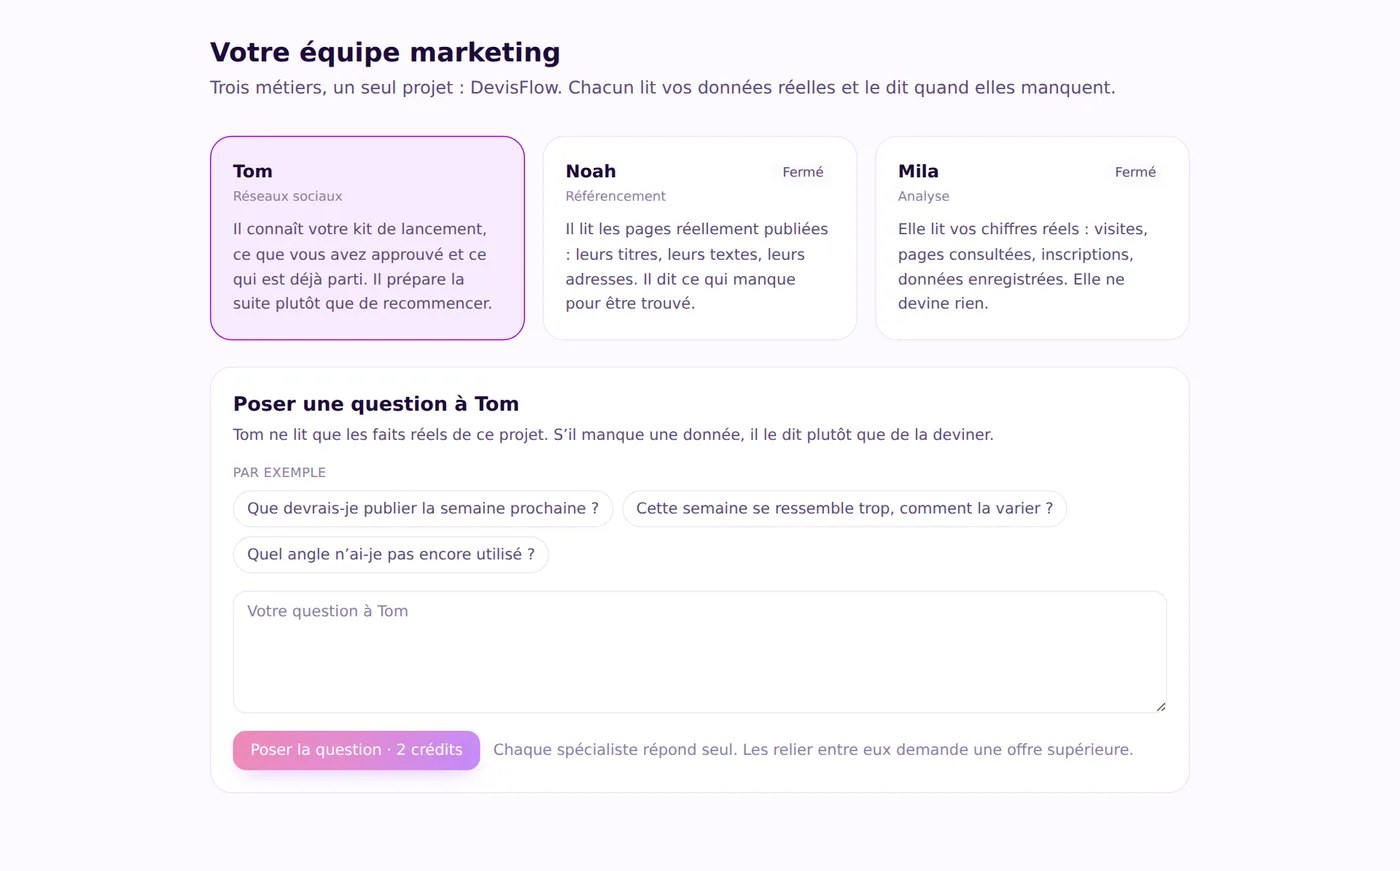
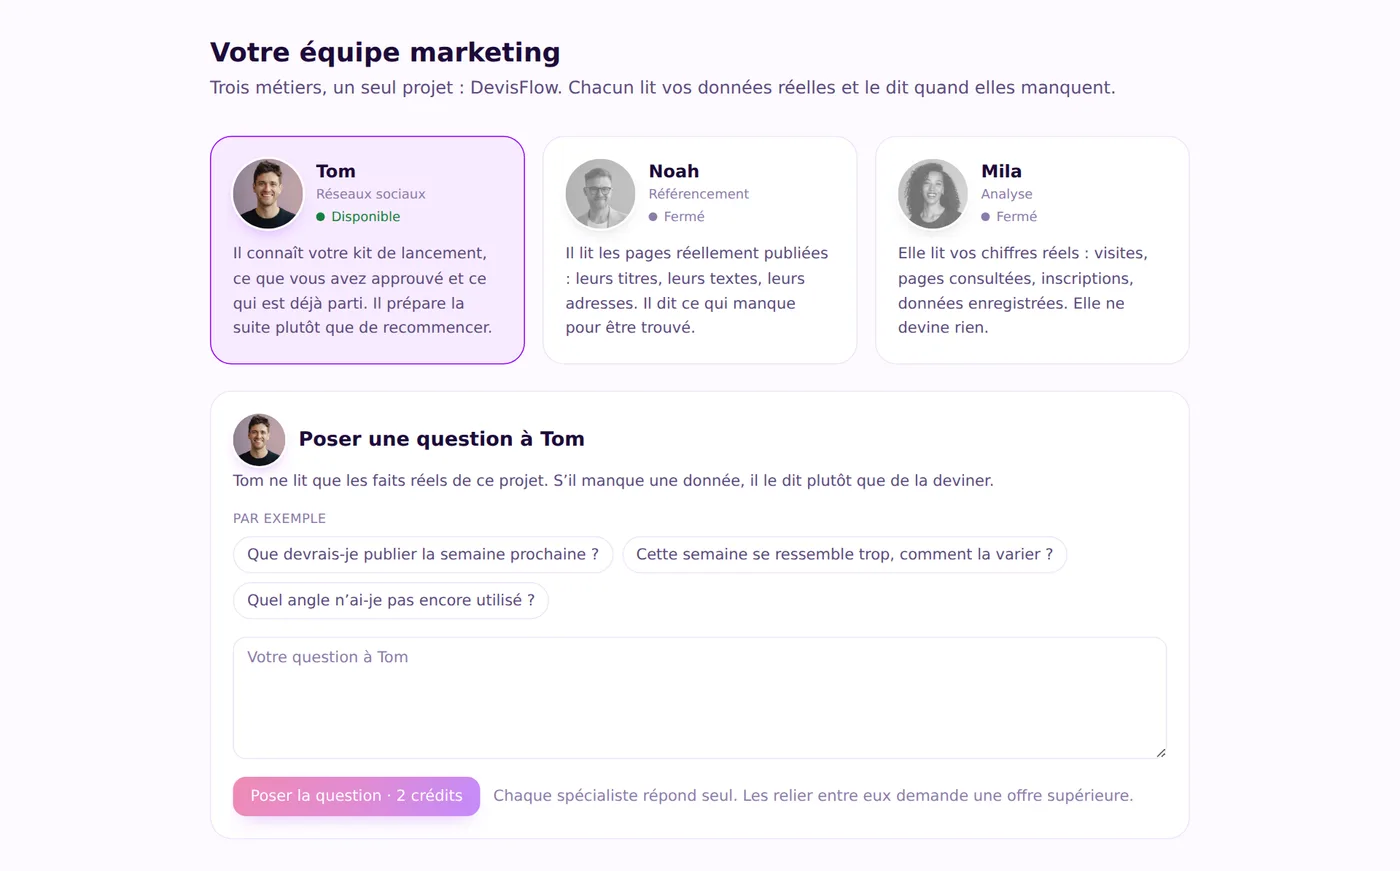
Équipe marketing : un visage pour Tom, Noah et Mila
Même équipe, mêmes prénoms, mêmes rôles : seul un portrait s'ajoute, défini au seul
endroit où l'équipe est déclarée (le catalogue des spécialistes) et servi depuis
/public/equipe. Il apparaît sur la carte de chaque membre, près du nom, du rôle et du
statut (disponible / fermé, en demi-teinte quand l'offre ne l'ouvre pas), en tête de la
conversation, et à côté de chaque réponse — comme dans une messagerie d'équipe. La capture
de la vitrine des modules est mise à jour.

Claude-Session: https://claude.ai/code/session_0159E9jSQkCegippfh66bzCy

diff --git a/src/components/studio/TeamBoard.tsx b/src/components/studio/TeamBoard.tsx
@@ -1,7 +1,7 @@
 'use client'
 
 import { useState } from 'react'
-import { Badge, Button, Card, CardBody, Notice, Textarea } from '@/components/ui'
+import { Button, Card, CardBody, Notice, Textarea } from '@/components/ui'
 
 /**
  * Le bureau des trois spécialistes.
@@ -25,6 +25,7 @@ export type AgentState = {
   role: string
   summary: string
   starters: string[]
+  avatar: string
   open: boolean
   availableWith: string | null
 }
@@ -45,6 +46,33 @@ function formatDate(iso: string): string {
     month: '2-digit',
     year: 'numeric',
   })
+}
+
+/**
+ * Le portrait d'un spécialiste. Rond, comme dans une messagerie : c'est le code visuel que
+ * tout le monde lit sans l'apprendre. Un spécialiste fermé est en demi-teinte, pas caché.
+ */
+function Avatar({
+  src,
+  name,
+  size = 'medium',
+  muted = false,
+}: {
+  src: string
+  name: string
+  size?: 'small' | 'medium' | 'large'
+  muted?: boolean
+}) {
+  const dimension = size === 'large' ? 'h-16 w-16' : size === 'small' ? 'h-8 w-8' : 'h-12 w-12'
+  return (
+    <img
+      src={src}
+      alt={`Portrait de ${name}`}
+      width={64}
+      height={64}
+      className={`${dimension} shrink-0 rounded-full object-cover ring-2 ring-[var(--color-surface)] shadow-[0_6px_16px_-8px_rgba(151,5,244,0.6)] ${muted ? 'opacity-60 grayscale' : ''}`}
+    />
+  )
 }
 
 export function TeamBoard({
@@ -117,11 +145,22 @@ export function TeamBoard({
                   : 'border-[var(--color-line)] bg-[var(--color-surface)] hover:border-[var(--color-brand)]'
               }`}
             >
-              <div className="flex items-center justify-between gap-2">
-                <span className="text-base font-semibold">{candidate.name}</span>
-                {candidate.open ? null : <Badge tone="neutral">Fermé</Badge>}
+              <div className="flex items-center gap-3">
+                <Avatar src={candidate.avatar} name={candidate.name} size="large" muted={!candidate.open} />
+                <div className="min-w-0">
+                  <span className="block text-base font-semibold">{candidate.name}</span>
+                  <span className="block text-xs text-[var(--color-ink-faint)]">{candidate.role}</span>
+                  <span className="mt-1 inline-flex items-center gap-1.5 text-xs">
+                    <span
+                      aria-hidden="true"
+                      className={`inline-block h-2 w-2 rounded-full ${candidate.open ? 'bg-[var(--color-positive)]' : 'bg-[var(--color-ink-faint)]'}`}
+                    />
+                    <span className={candidate.open ? 'text-[var(--color-positive)]' : 'text-[var(--color-ink-faint)]'}>
+                      {candidate.open ? 'Disponible' : 'Fermé'}
+                    </span>
+                  </span>
+                </div>
               </div>
-              <p className="m-0 mt-0.5 text-xs text-[var(--color-ink-faint)]">{candidate.role}</p>
               <p className="m-0 mt-3 text-sm leading-relaxed text-[var(--color-ink-soft)]">
                 {candidate.summary}
               </p>
@@ -134,9 +173,12 @@ export function TeamBoard({
         <Card>
           <CardBody className="grid gap-4">
             <div>
-              <h2 className="m-0 text-lg font-semibold">
-                Poser une question à {agent.name}
-              </h2>
+              <div className="flex items-center gap-3">
+                <Avatar src={agent.avatar} name={agent.name} />
+                <h2 className="m-0 text-lg font-semibold">
+                  Poser une question à {agent.name}
+                </h2>
+              </div>
               <p className="m-0 mt-1 text-sm text-[var(--color-ink-soft)]">
                 {agent.name} ne lit que les faits réels de ce projet. S’il manque une donnée,
                 il le dit plutôt que de la deviner.
@@ -222,9 +264,17 @@ export function TeamBoard({
                     {formatDate(note.createdAt)} · {note.creditsSpent} crédits
                   </span>
                 </div>
-                <p className="m-0 whitespace-pre-line text-sm leading-relaxed text-[var(--color-ink-soft)]">
-                  {note.answer}
-                </p>
+                <div className="flex items-start gap-3">
+                  {agent !== undefined ? <Avatar src={agent.avatar} name={agent.name} size="small" /> : null}
+                  <div className="min-w-0 flex-1 rounded-[var(--radius-control)] bg-[var(--color-canvas)] px-4 py-3">
+                    <span className="mb-1 block text-xs font-semibold text-[var(--color-brand-strong)]">
+                      {note.agentName}
+                    </span>
+                    <p className="m-0 whitespace-pre-line text-sm leading-relaxed text-[var(--color-ink-soft)]">
+                      {note.answer}
+                    </p>
+                  </div>
+                </div>
               </CardBody>
             </Card>
           ))}

diff --git a/src/server/agents/catalog.ts b/src/server/agents/catalog.ts
@@ -29,6 +29,11 @@ export type Agent = {
   /** Prénom affiché. Un interlocuteur se retient mieux qu'un intitulé de fonction. */
   name: string
   role: string
+  /**
+   * Portrait, servi depuis /public/equipe. Un visage se reconnaît avant un prénom : c'est
+   * ce qui fait qu'on sait à qui l'on parle, comme dans une messagerie d'équipe.
+   */
+  avatar: string
   /** Ce qu'il sait faire, en une phrase, pour l'écran de choix. */
   summary: string
   /** Identifiant de la fonction qui l'ouvre. Voir server/billing/features.ts. */
@@ -41,6 +46,7 @@ export const AGENTS: readonly Agent[] = [
   {
     id: 'social',
     name: 'Tom',
+    avatar: '/equipe/tom.webp',
     role: 'Réseaux sociaux',
     summary:
       'Il connaît votre kit de lancement, ce que vous avez approuvé et ce qui est déjà parti. Il prépare la suite plutôt que de recommencer.',
@@ -54,6 +60,7 @@ export const AGENTS: readonly Agent[] = [
   {
     id: 'seo',
     name: 'Noah',
+    avatar: '/equipe/noah.webp',
     role: 'Référencement',
     summary:
       'Il lit les pages réellement publiées : leurs titres, leurs textes, leurs adresses. Il dit ce qui manque pour être trouvé.',
@@ -67,6 +74,7 @@ export const AGENTS: readonly Agent[] = [
   {
     id: 'analytics',
     name: 'Mila',
+    avatar: '/equipe/mila.webp',
     role: 'Analyse',
     summary:
       'Elle lit vos chiffres réels : visites, pages consultées, inscriptions, données enregistrées. Elle ne devine rien.',

diff --git a/src/server/agents/service.ts b/src/server/agents/service.ts
@@ -37,6 +37,7 @@ export type AgentView = {
   id: AgentId
   name: string
   role: string
+  avatar: string
   summary: string
   starters: string[]
   /** Ouvert par l'offre de la personne. Un spécialiste fermé s'affiche sans se cacher. */
@@ -118,6 +119,7 @@ export async function getDesk(userId: string, projectId: string): Promise<AgentD
       id: agent.id,
       name: agent.name,
       role: agent.role,
+      avatar: agent.avatar,
       summary: agent.summary,
       starters: [...agent.starters],
       open: entitlements.granted.includes(agent.feature),
